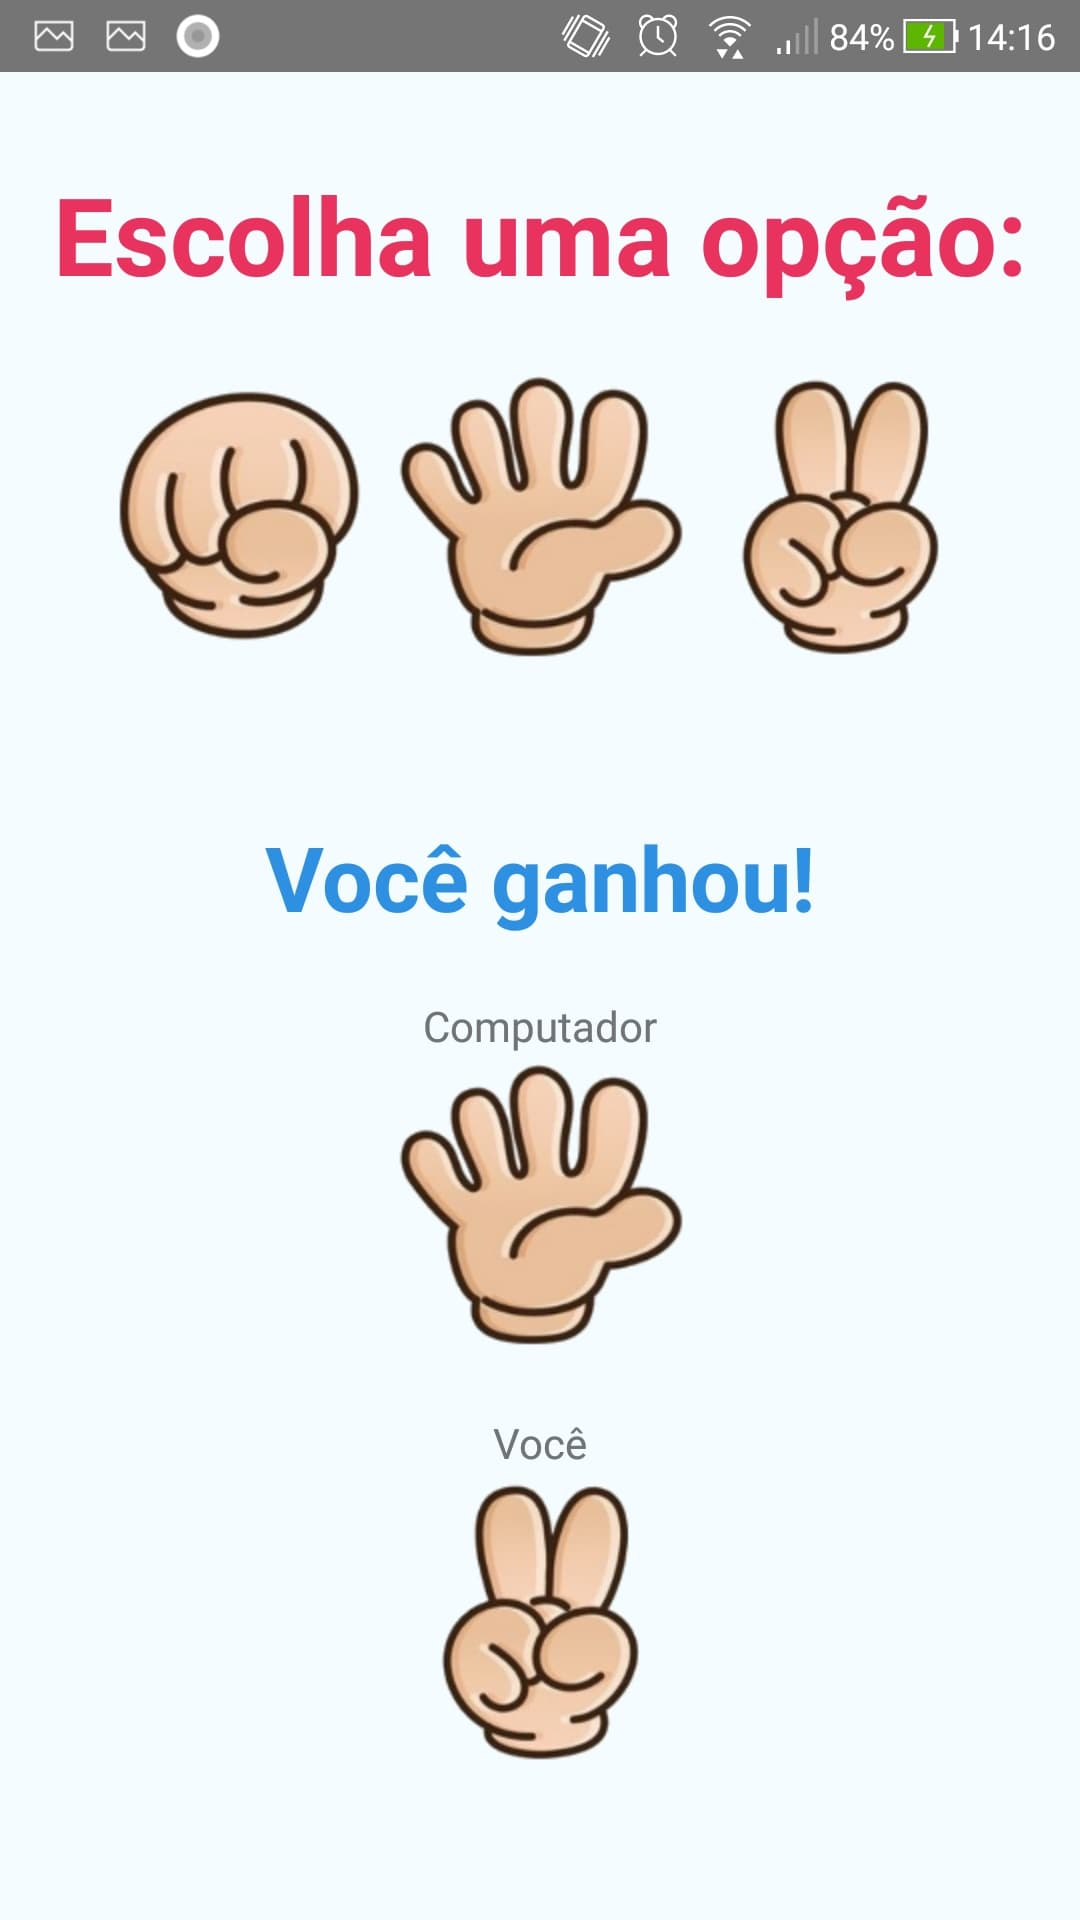
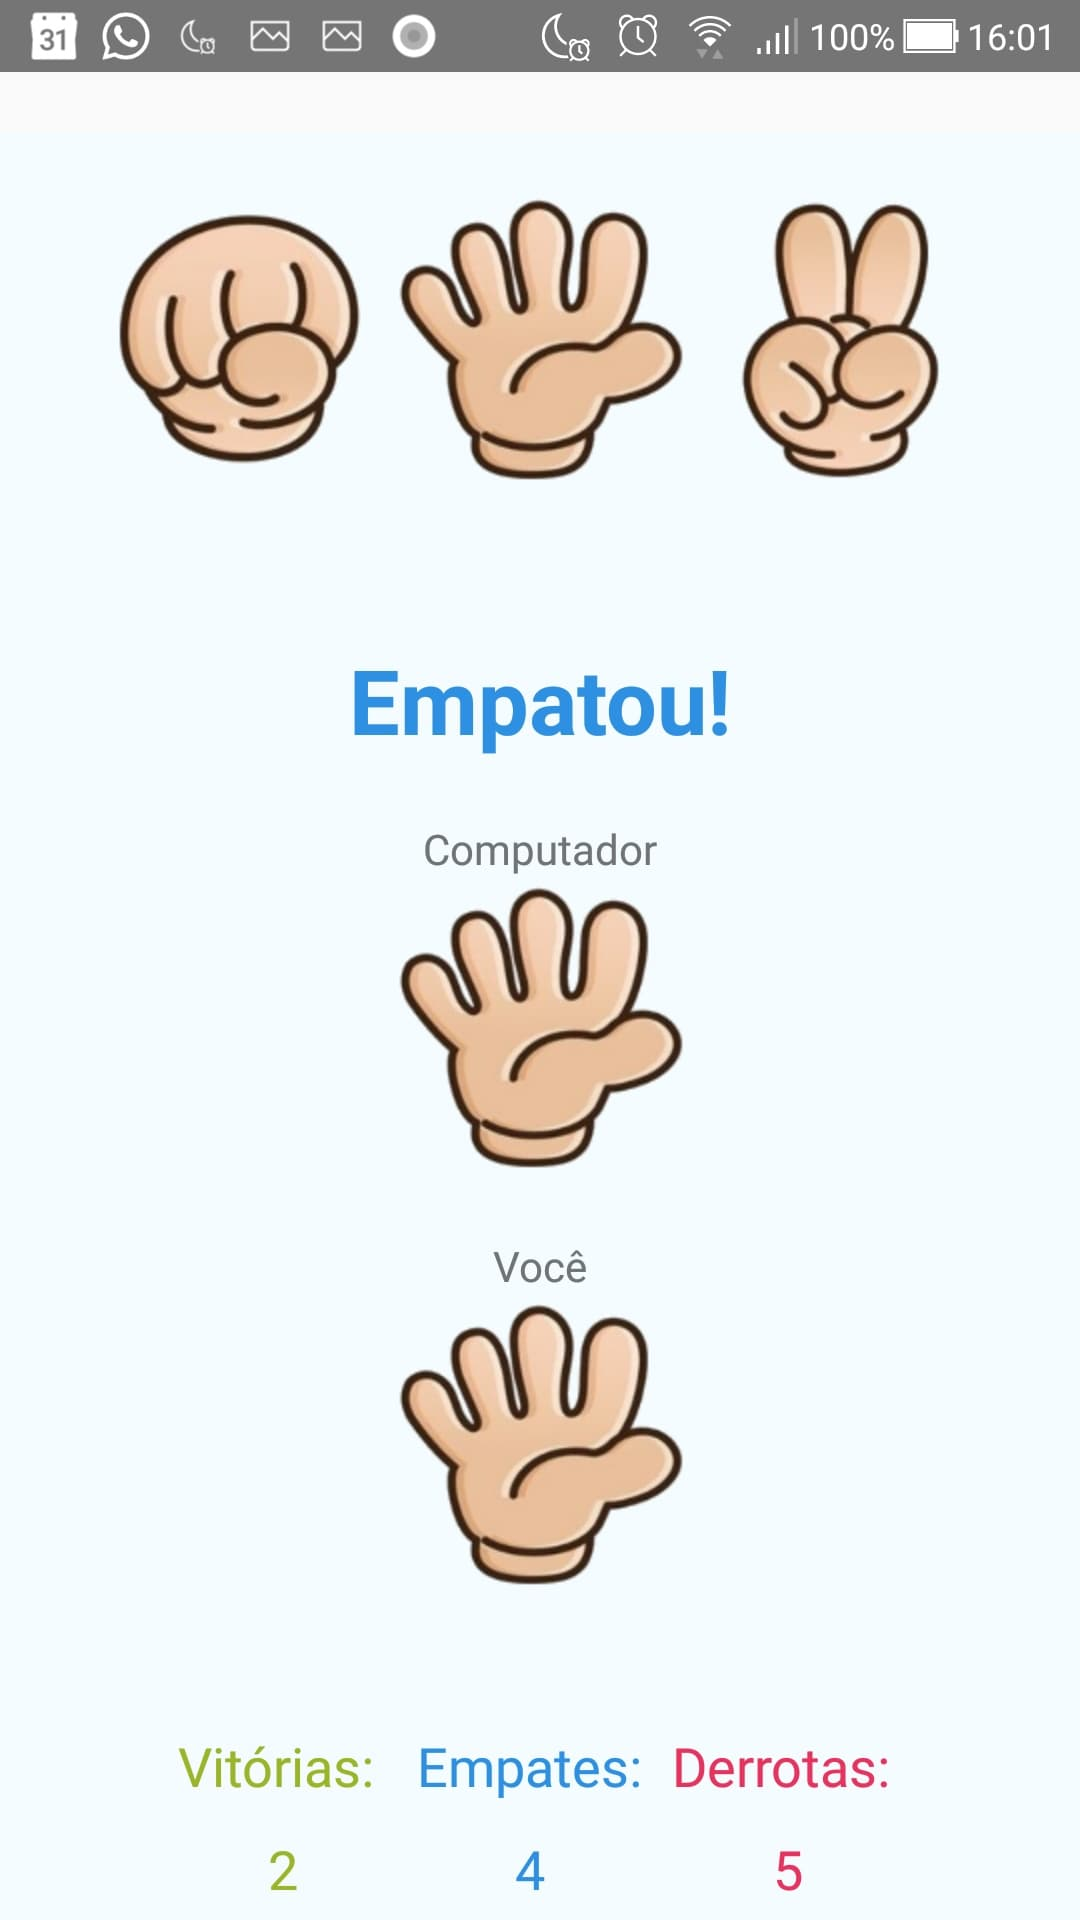
Adicionado placar

diff --git a/App.js b/App.js
@@ -3,23 +3,24 @@
 */
 
 import React, {Component} from 'react';
-import { StyleSheet, Text, View, TouchableOpacity , Image } from 'react-native';
+import { StyleSheet, Text, View, TouchableOpacity , Image, ScrollView } from 'react-native';
 
 import Icone from './src/components/icone';
 
 const pedra = require('./images/pedra.png');
 const papel = require('./images/papel.png');
 const tesoura = require('./images/tesoura.png');
-
+var vitorias = 0;
+var derrotas = 0;
+var empates = 0;
 type Props = {};
 export default class App extends Component<Props> {
   constructor(props) {
     super(props);
-    this.state ={ escolhaUsuario: '', escolhaComputador: '' , imagem: '' };
+    this.state ={ escolhaUsuario: '', escolhaComputador: '' };
   };
   jokenpo(escolhaUsuario) {
     const numAleatorio = Math.floor(Math.random() * 3 + 1);
-    let imagem = '';
     let escolhaComputador = '';
     switch (numAleatorio) {
       case 1: escolhaComputador = 'Pedra'; break;
@@ -32,71 +33,100 @@ export default class App extends Component<Props> {
 
     if (escolhaComputador === escolhaUsuario) {
         resultado = 'Empatou!';
+        empates   += 1;
     }
     else if (escolhaComputador === 'Pedra' && escolhaUsuario === 'Papel') {
         resultado = 'Você ganhou!';
+        vitorias   += 1;
     }
     else if (escolhaComputador === 'Pedra' && escolhaUsuario === 'Tesoura') {
         resultado = 'Você perdeu!';
+        derrotas   += 1;
     }
     else if (escolhaComputador === 'Papel' && escolhaUsuario === 'Tesoura') {
         resultado = 'Você ganhou!';
+        vitorias   += 1;
     }
     else if (escolhaComputador === 'Papel' && escolhaUsuario === 'Pedra') {
         resultado = 'Você perdeu!';
+        derrotas   += 1;
     }
     else if (escolhaComputador === 'Tesoura' && escolhaUsuario === 'Pedra') {
         resultado = 'Você ganhou!';
+        vitorias   += 1;
     }
     else  {
         resultado = 'Você perdeu!';
+        derrotas   += 1;
     }
 
-    this.setState({ escolhaUsuario, escolhaComputador, resultado });
+    this.setState({ escolhaUsuario, escolhaComputador, resultado, empates, vitorias, derrotas });
   };
   render() {
     return (
-      <View style={styles.container}>
-      <Text style={styles.titulo}>Escolha uma opção:</Text>
-          <View style={styles.botoes}>
-              <TouchableOpacity
-                onPress={() => { this.jokenpo('Pedra'); }}>
-                <Image
-                  source={ pedra }
-                  style={styles.imagem}
-                />
-              </TouchableOpacity>
-              <TouchableOpacity
-                onPress={() => { this.jokenpo('Papel'); }}>
-                <Image
-                  source={ papel }
-                  style={styles.imagem}
-                />
-              </TouchableOpacity>
-              <TouchableOpacity
-                onPress={() => { this.jokenpo('Tesoura'); }}>
-                <Image
-                  source={ tesoura }
-                  style={styles.imagem}
-                />
-              </TouchableOpacity>
+      <ScrollView style={styles.main}>
+        <View style={styles.container}>
+        <Text style={styles.titulo}>Escolha uma opção:</Text>
+            <View style={styles.botoes}>
+                <TouchableOpacity
+                  onPress={() => { this.jokenpo('Pedra'); }}>
+                  <Image
+                    source={ pedra }
+                    style={styles.imagem}
+                  />
+                </TouchableOpacity>
+                <TouchableOpacity
+                  onPress={() => { this.jokenpo('Papel'); }}>
+                  <Image
+                    source={ papel }
+                    style={styles.imagem}
+                  />
+                </TouchableOpacity>
+                <TouchableOpacity
+                  onPress={() => { this.jokenpo('Tesoura'); }}>
+                  <Image
+                    source={ tesoura }
+                    style={styles.imagem}
+                  />
+                </TouchableOpacity>
+            </View>
+          <View style={styles.resultados}>
+            <Text style={styles.resultado}>{this.state.resultado}</Text>
+            <Icone escolha={this.state.escolhaComputador} jogador="Computador" />
+            <Icone escolha={this.state.escolhaUsuario} jogador="Você" />
           </View>
-        <View style={styles.resultados}>
-        <Text style={styles.resultado}>{this.state.resultado}</Text>
-          <Icone escolha={this.state.escolhaComputador} jogador="Computador" />
-          <Icone escolha={this.state.escolhaUsuario} jogador="Você" />
+          <View style={styles.tabela}>
+            <View style={styles.item}>
+              <Text style={styles.vitorias}>Vitórias: </Text>
+              <Text style={styles.vitorias}>{this.state.vitorias}</Text>
+            </View>
+              <View style={styles.item}>
+                <Text style={styles.empates}>Empates:</Text>
+                <Text style={styles.empates}>{this.state.empates}</Text>
+              </View>
+                <View style={styles.item}>
+                  <Text style={styles.derrotas}>Derrotas: </Text>
+                  <Text style={styles.derrotas}>{this.state.derrotas}</Text>
+                </View>
+
+
+          </View>
         </View>
-      </View>
+      </ScrollView>
     );
   }
 }
 
 const styles = StyleSheet.create({
+  main:{
+    marginTop: 20,
+    backgroundColor: '#F5FCFF',
+  },
   container: {
     flex: 1,
     justifyContent: 'center',
     alignItems: 'center',
-    backgroundColor: '#F5FCFF',
+      marginTop: 20,
   },
   botoes: {
     flexDirection: 'row',
@@ -133,4 +163,29 @@ const styles = StyleSheet.create({
     color: '#EA325F',
     fontWeight: 'bold'
   },
+  tabela: {
+    flexDirection: 'row',
+    alignItems: 'center',
+    justifyContent: 'space-between',
+    marginTop: 20,
+  },
+  item: {
+    alignItems: 'center',
+    justifyContent: 'center',
+},
+  vitorias: {
+    fontSize: 18,
+    color: '#9AB628',
+    margin: 5
+  },
+  empates: {
+    fontSize: 18,
+    color: '#2E90E2',
+    margin: 5
+  },
+  derrotas: {
+    fontSize: 18,
+    color: '#EA325F',
+    margin: 5
+  }
 });
